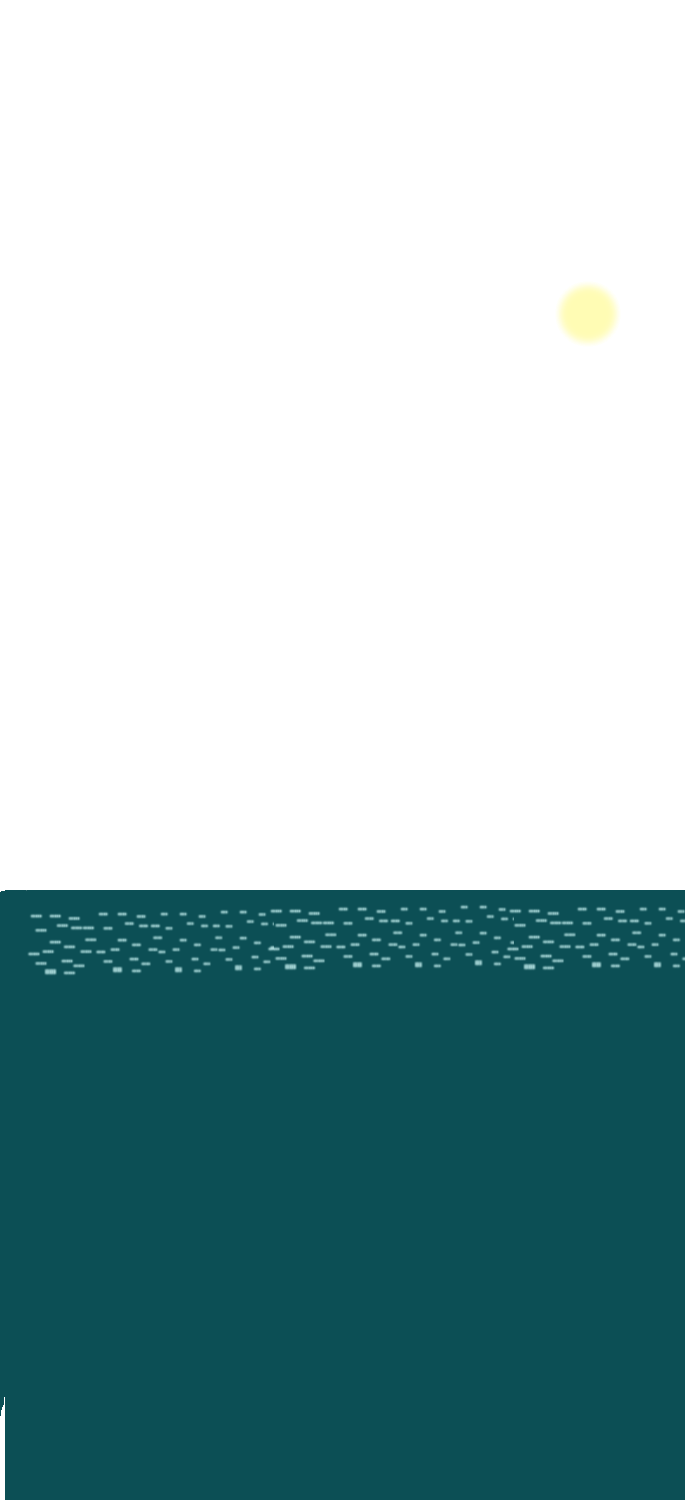
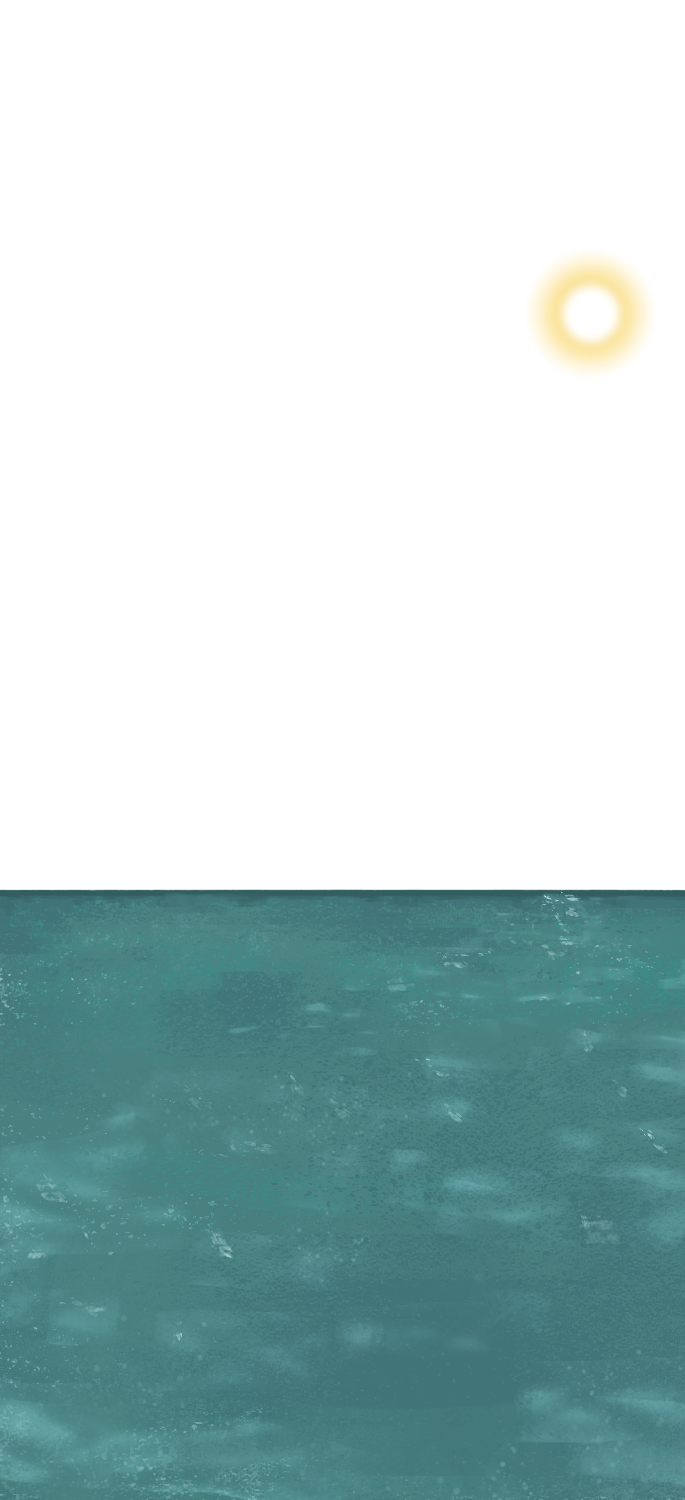
added sun and scope images

diff --git a/sass/sensing_evolution.scss b/sass/sensing_evolution.scss
@@ -505,8 +505,8 @@ div.item-title {
       width: $sextantCapturedImageHeight;
       margin-left: auto;
       margin-right: auto;
-      border: 20px solid darkgoldenrod;
-      border-radius: $sextantCapturedImageHeight / 2;
+      background-image: url(../img/sextant_eye_piece.png);
+      background-size:cover;
       z-index: 10000;
       position: absolute;
       left: 20.5%;
